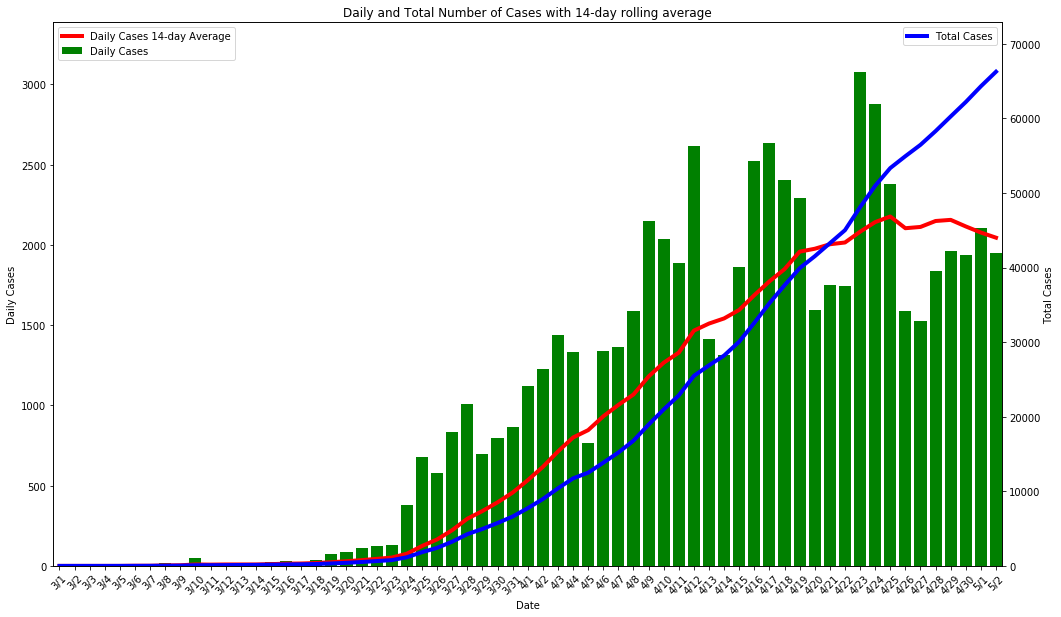
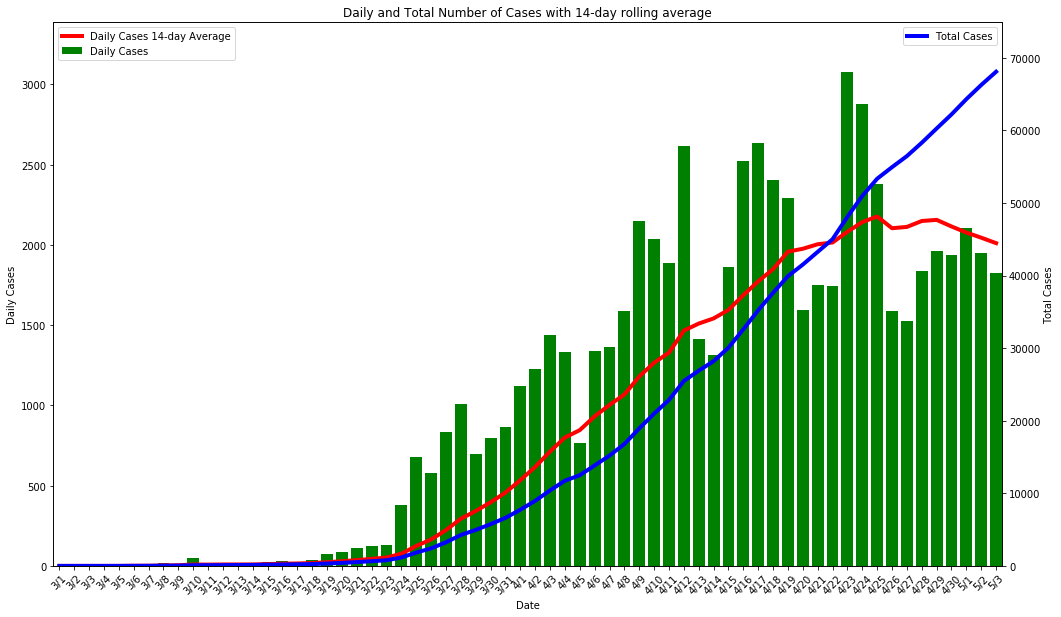
covid up

diff --git a/_posts/2020-05-03-Massachusetts COVID-19 Tracker.md b/_posts/2020-05-03-Massachusetts COVID-19 Tracker.md
@@ -1,0 +1,140 @@
+---
+layout: post
+title: "Massachusetts COVID-19 Tracker"
+img: MASS19_thumbnail.jpg
+img_thumbnail: MASS19_thumbnail_FULL.jpg
+date: 2020-05-03 12:54:00 +0300
+description: None. 
+tag: ['COVID-19', 'Coronavirus', 'Massachusetts']
+---
+
+
+
+
+
+
+
+
+
+
+
+
+
+
+
+
+
+
+
+
+
+
+
+
+
+
+<p align="center">
+    <img src="https://sdamolini.github.io/assets/img/MASS19/output_7_0.png" style="max-width:840px;">
+</p>
+
+
+
+
+
+
+
+
+
+
+
+
+
+
+
+<p align="center">
+    <img src="https://sdamolini.github.io/assets/img/MASS19/output_9_0.png" style="max-width:840px;">
+</p>
+
+
+
+
+
+
+
+
+
+
+
+
+
+
+
+
+
+<p align="center">
+    <img src="https://sdamolini.github.io/assets/img/MASS19/output_12_0.png" style="max-width:840px;">
+</p>
+
+
+
+
+
+
+
+
+
+
+
+
+
+
+
+<p align="center">
+    <img src="https://sdamolini.github.io/assets/img/MASS19/output_14_0.png" style="max-width:840px;">
+</p>
+
+
+
+
+
+
+
+
+
+
+
+
+
+
+
+
+
+
+
+
+
+
+
+<p align="center">
+    <img src="https://sdamolini.github.io/assets/img/MASS19/output_17_0.png" style="max-width:840px;">
+</p>
+
+
+
+
+
+<p align="center">
+    <img src="https://sdamolini.github.io/assets/img/MASS19/output_18_0.png" style="max-width:840px;">
+</p>
+
+
+Source of data: <a href="https://www.mass.gov/info-details/covid-19-cases-quarantine-and-monitoring" target="_blank">www.mass.gov</a>.  
+This is a work in progress with daily updates. If you have feedback, please send it to <a href="mailto:feedback@damolini.com">feedback@mass19.com</a>.
+
+
+
+
+
+
+
+
